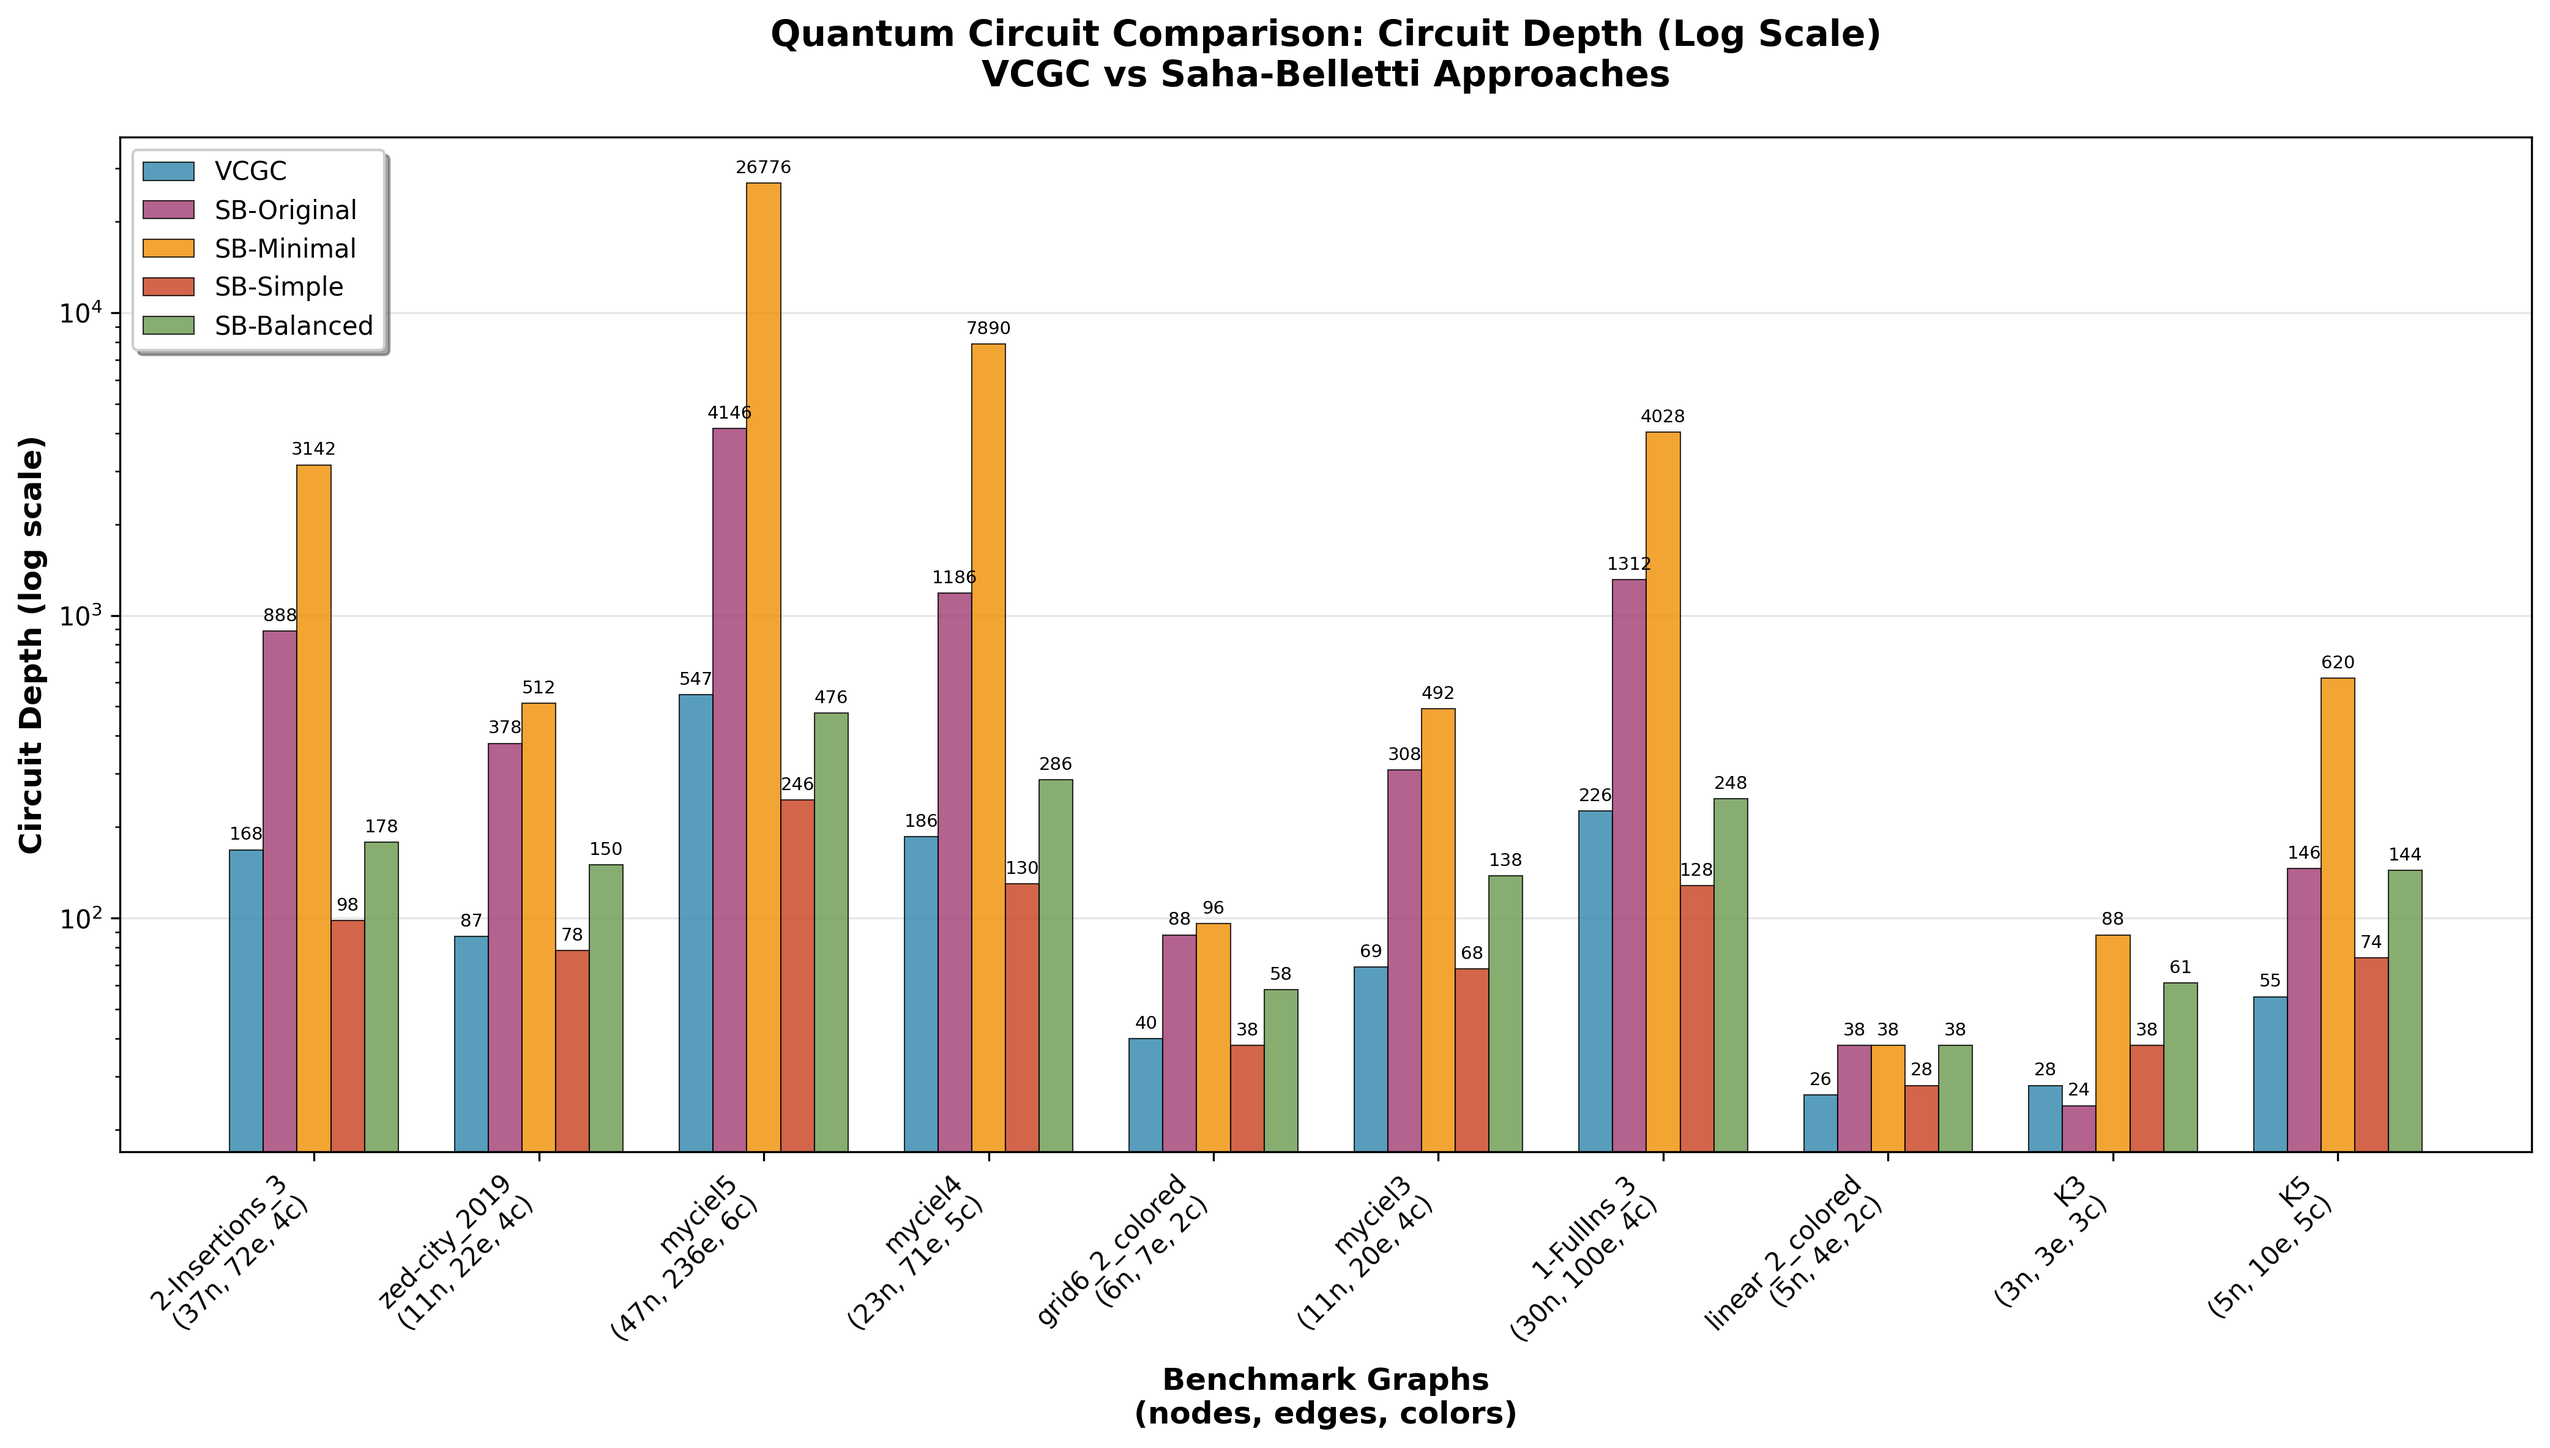
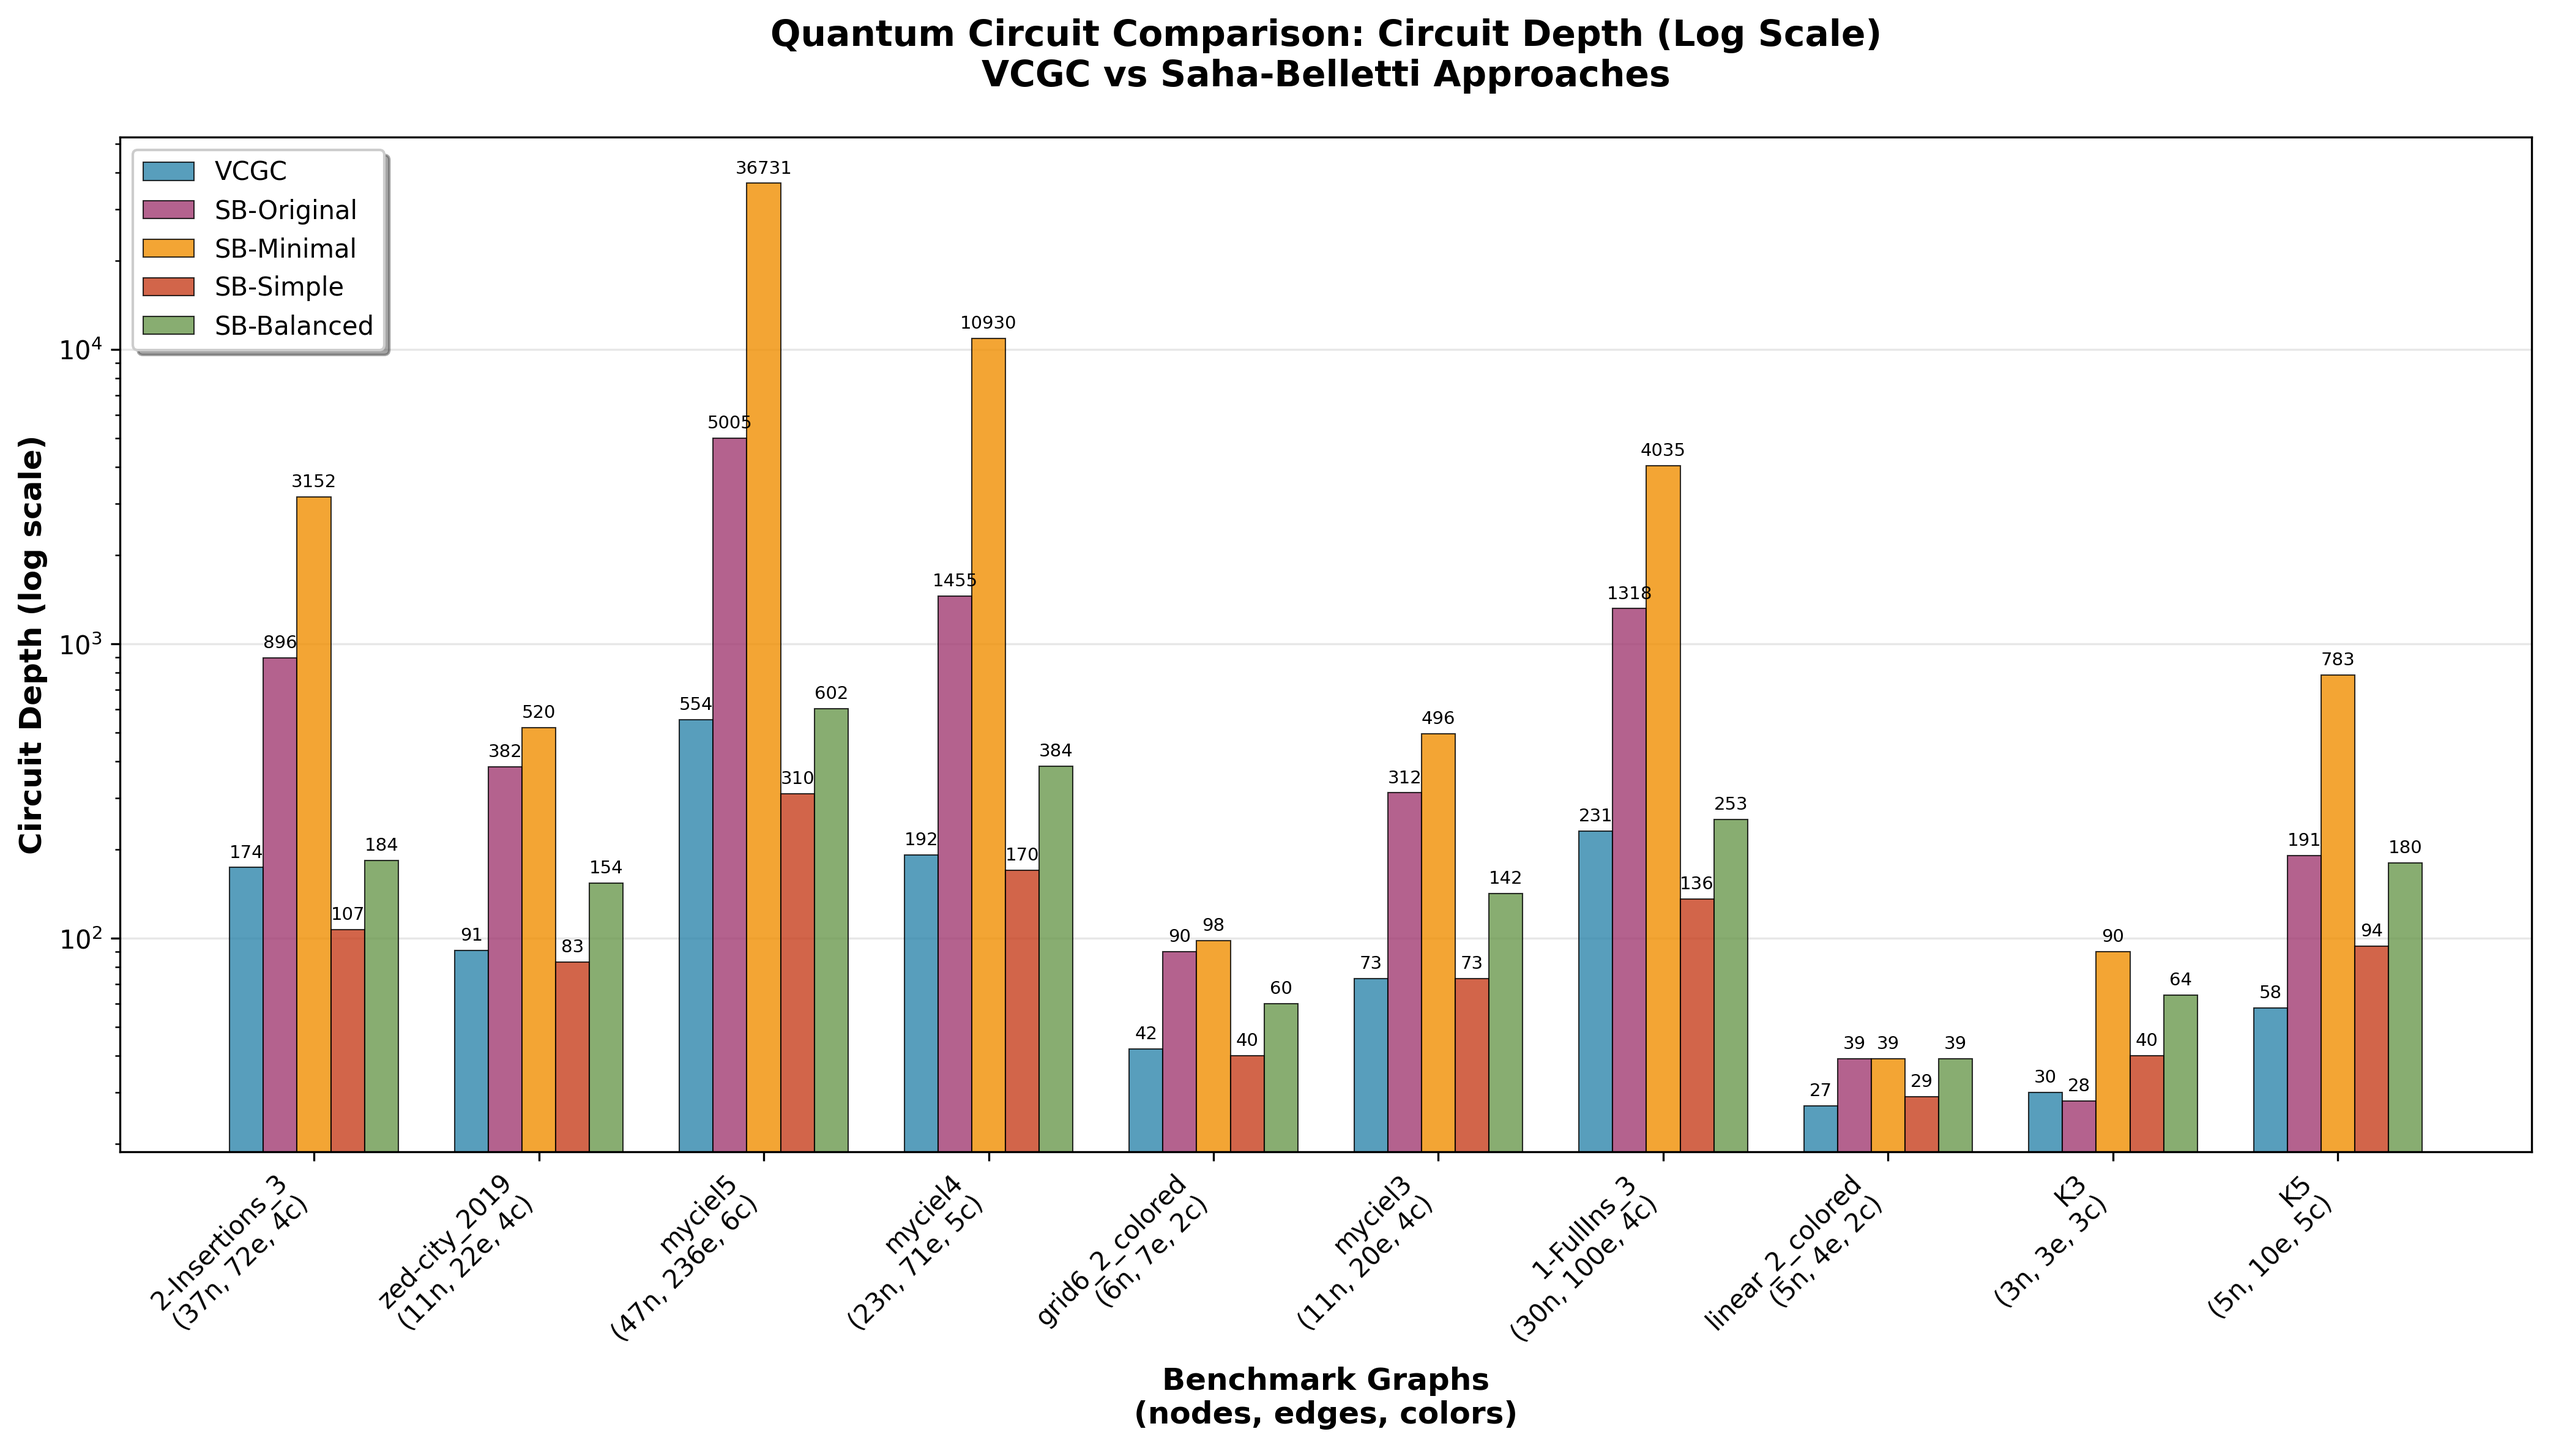
Redo the depth calculations considering MCX decompositions
Modified qiskit code for depth() to include this

diff --git a/scripts/generate_benchmarks.py b/scripts/generate_benchmarks.py
@@ -189,7 +189,7 @@ class BenchmarkGenerator:
             return CircuitMetrics(
                 name="VCGC",
                 num_qubits=vcgc_grover_circuit.num_qubits,
-                depth=vcgc_grover_circuit.depth(),
+                depth=vcgc_grover_circuit.depth(mcx_decomposition=True),
                 num_gates=len(vcgc_grover_circuit),
                 mcx_ancilla_qubits=ancilla_count,
                 total_qubits_with_ancilla=vcgc_grover_circuit.num_qubits + ancilla_count
@@ -233,7 +233,7 @@ class BenchmarkGenerator:
                 sb_metrics[oracle_type] = CircuitMetrics(
                     name=f"Saha-Belletti-{oracle_type}",
                     num_qubits=sb_circuit.num_qubits,
-                    depth=sb_circuit.depth(),
+                    depth=sb_circuit.depth(mcx_decomposition=True),
                     num_gates=len(sb_circuit),
                     oracle_type=oracle_type,
                     mcx_ancilla_qubits=ancilla_count,
